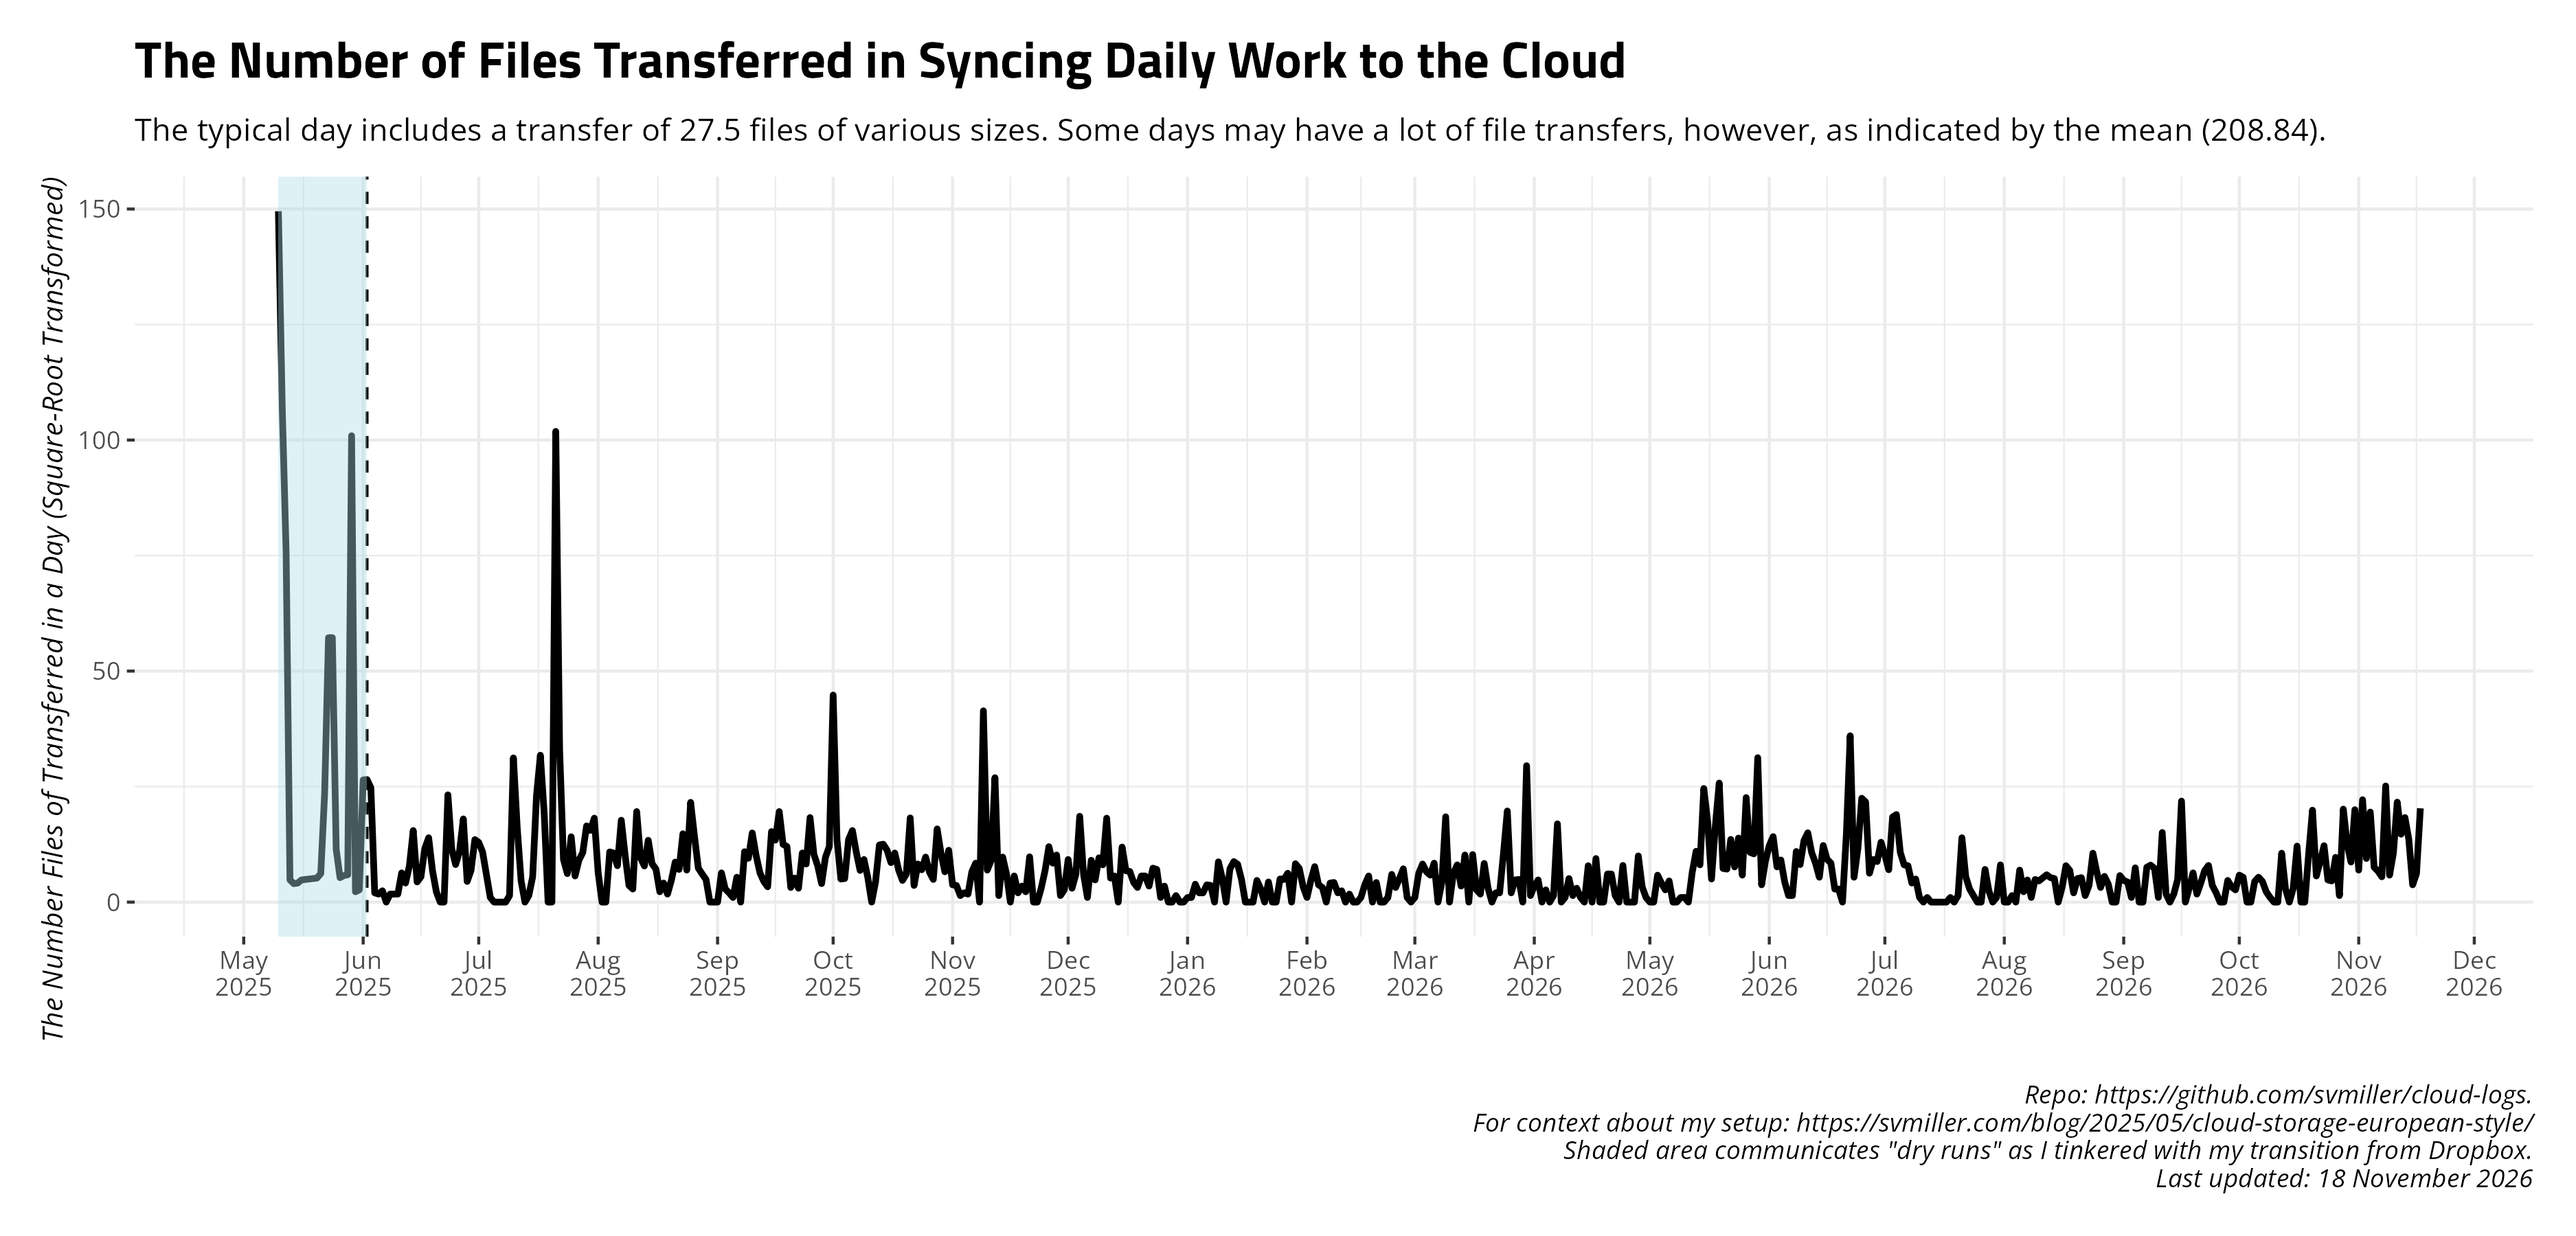
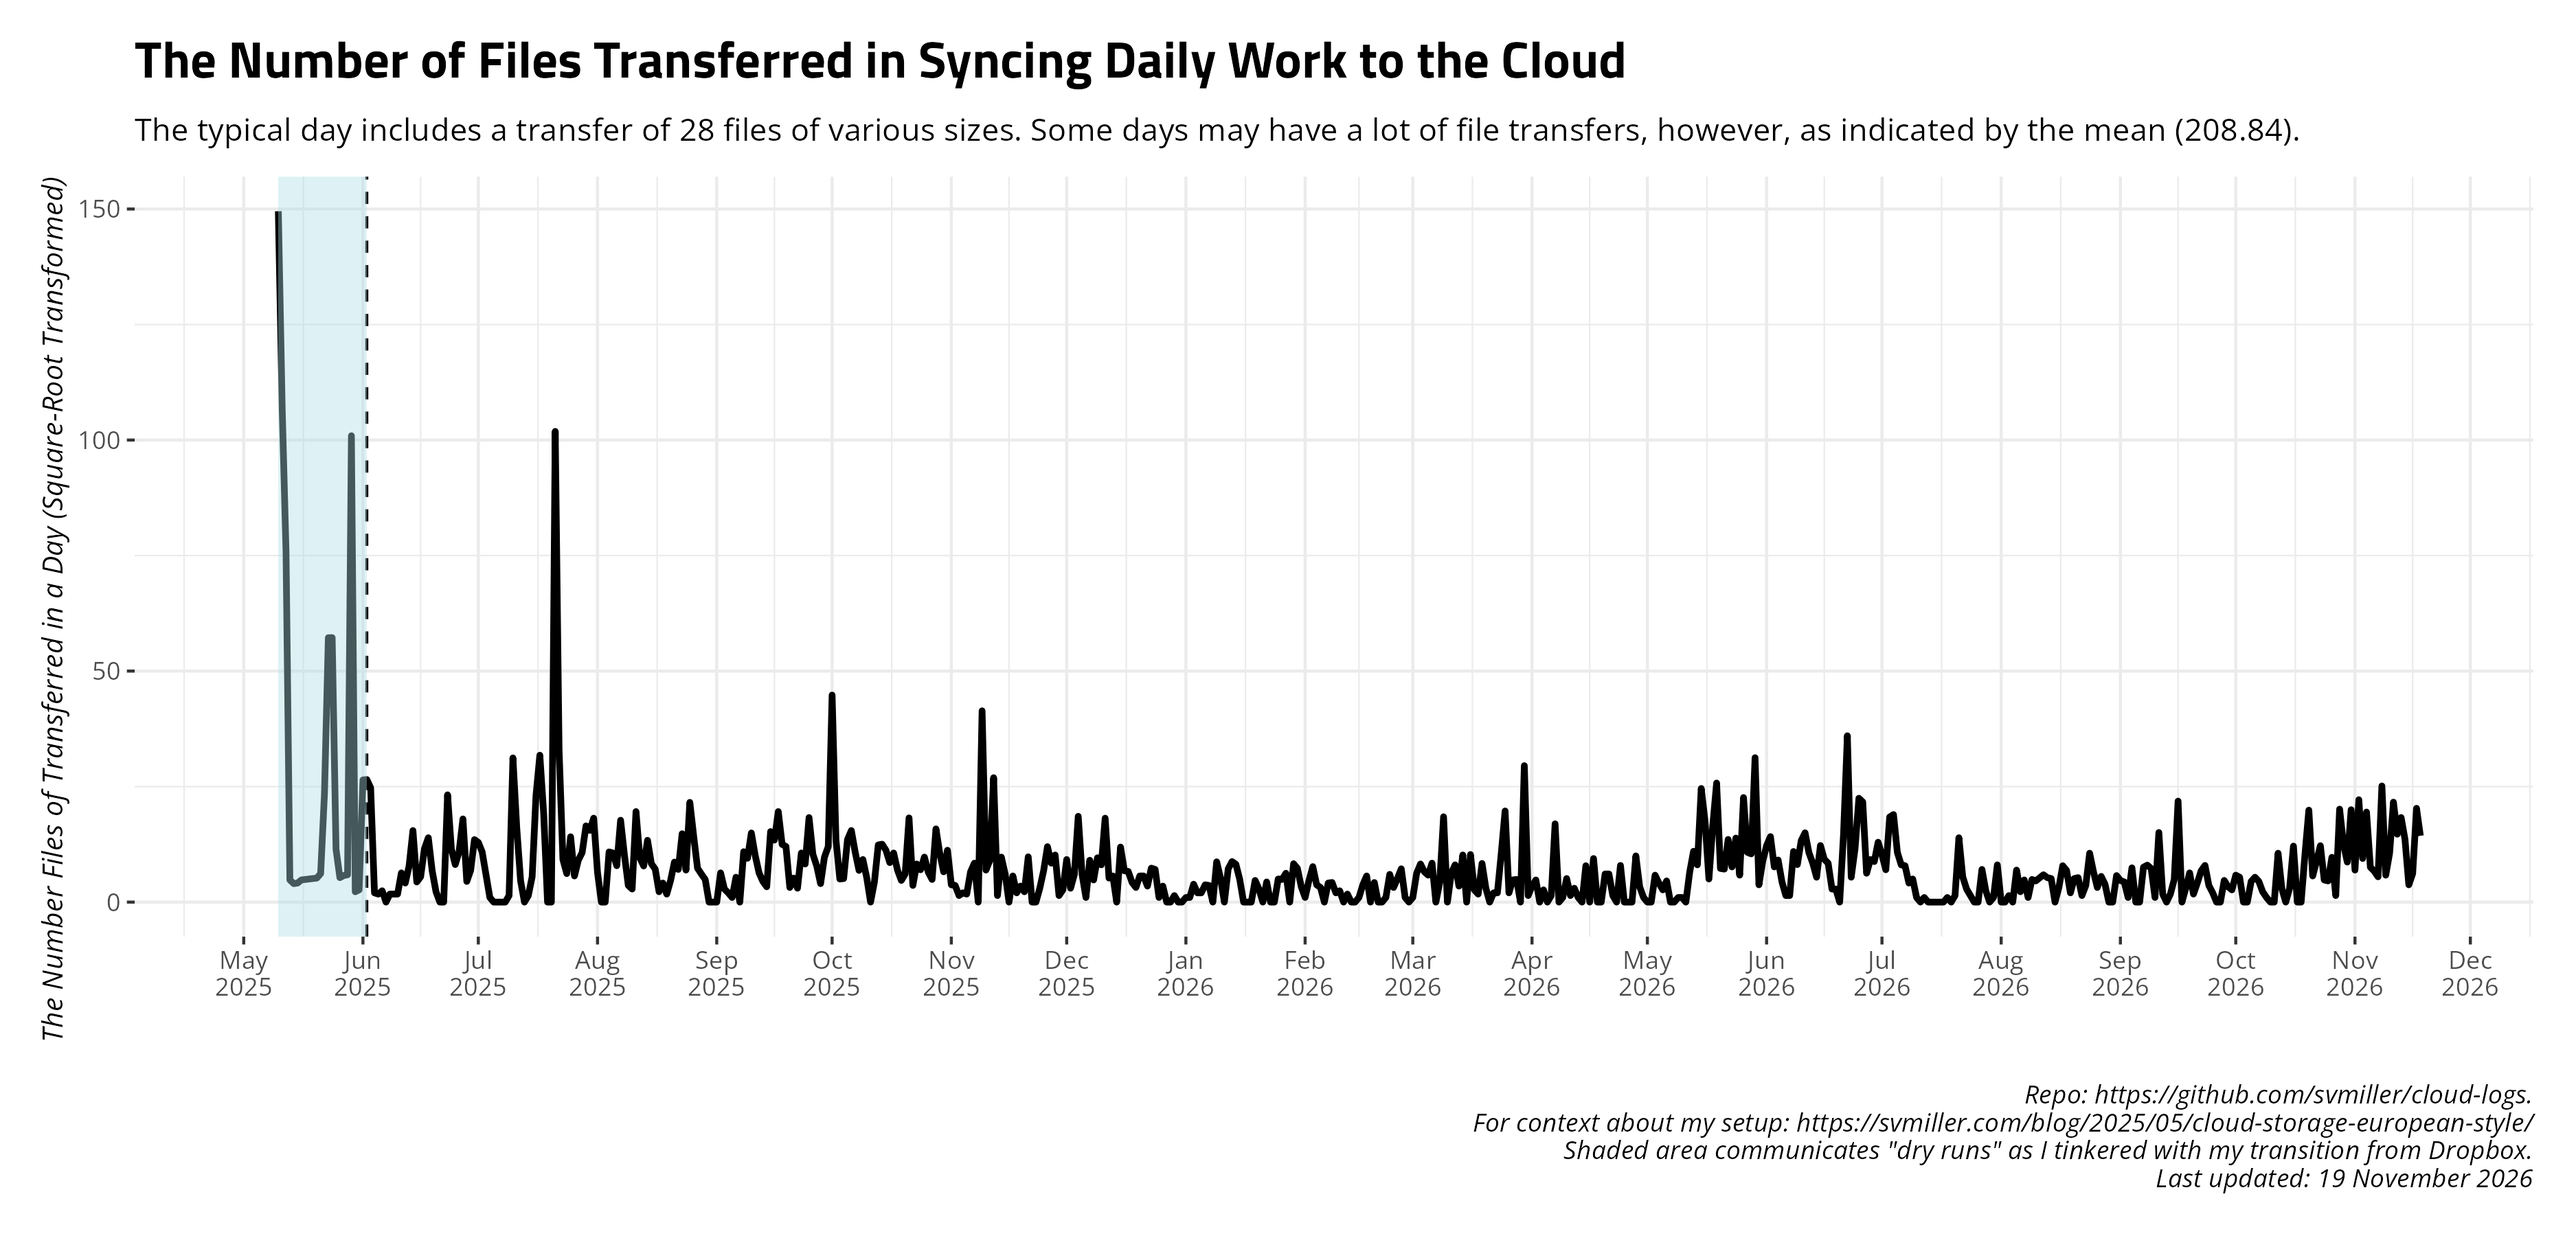
Date: 2026-11-19 09:00:38. Hi mom!

diff --git a/README.md b/README.md
@@ -27,17 +27,17 @@ and uploads to Github.
     #> # A tibble: 14 × 4
     #>    date       ftransfer stransfer   elapsed
     #>    <date>         <dbl> <chr>       <chr>  
-    #>  1 2026-11-04       380 74.847 MiB  4m46.3s
-    #>  2 2026-11-05        57 3.487 MiB   4m20.8s
-    #>  3 2026-11-06        45 1.664 MiB   4m24.8s
-    #>  4 2026-11-07        30 74.959 KiB  4m21.4s
-    #>  5 2026-11-08       632 13.017 MiB  4m48.5s
-    #>  6 2026-11-09        34 136.311 KiB 4m24.1s
-    #>  7 2026-11-10       112 2.557 MiB   4m32.5s
-    #>  8 2026-11-11       468 5.815 MiB   4m58.3s
-    #>  9 2026-11-12       216 4.728 MiB   4m39.3s
-    #> 10 2026-11-13       335 8.642 MiB   4m40.1s
-    #> 11 2026-11-14       185 2.590 MiB   4m58.3s
-    #> 12 2026-11-15        14 25.928 KiB  4m33.2s
-    #> 13 2026-11-16        38 374.343 KiB 4m45.9s
-    #> 14 2026-11-17       412 4.001 MiB   4m51.4s
+    #>  1 2026-11-05        57 3.487 MiB   4m20.8s
+    #>  2 2026-11-06        45 1.664 MiB   4m24.8s
+    #>  3 2026-11-07        30 74.959 KiB  4m21.4s
+    #>  4 2026-11-08       632 13.017 MiB  4m48.5s
+    #>  5 2026-11-09        34 136.311 KiB 4m24.1s
+    #>  6 2026-11-10       112 2.557 MiB   4m32.5s
+    #>  7 2026-11-11       468 5.815 MiB   4m58.3s
+    #>  8 2026-11-12       216 4.728 MiB   4m39.3s
+    #>  9 2026-11-13       335 8.642 MiB   4m40.1s
+    #> 10 2026-11-14       185 2.590 MiB   4m58.3s
+    #> 11 2026-11-15        14 25.928 KiB  4m33.2s
+    #> 12 2026-11-16        38 374.343 KiB 4m45.9s
+    #> 13 2026-11-17       412 4.001 MiB   4m51.4s
+    #> 14 2026-11-18       206 11.101 MiB  4m39.7s
